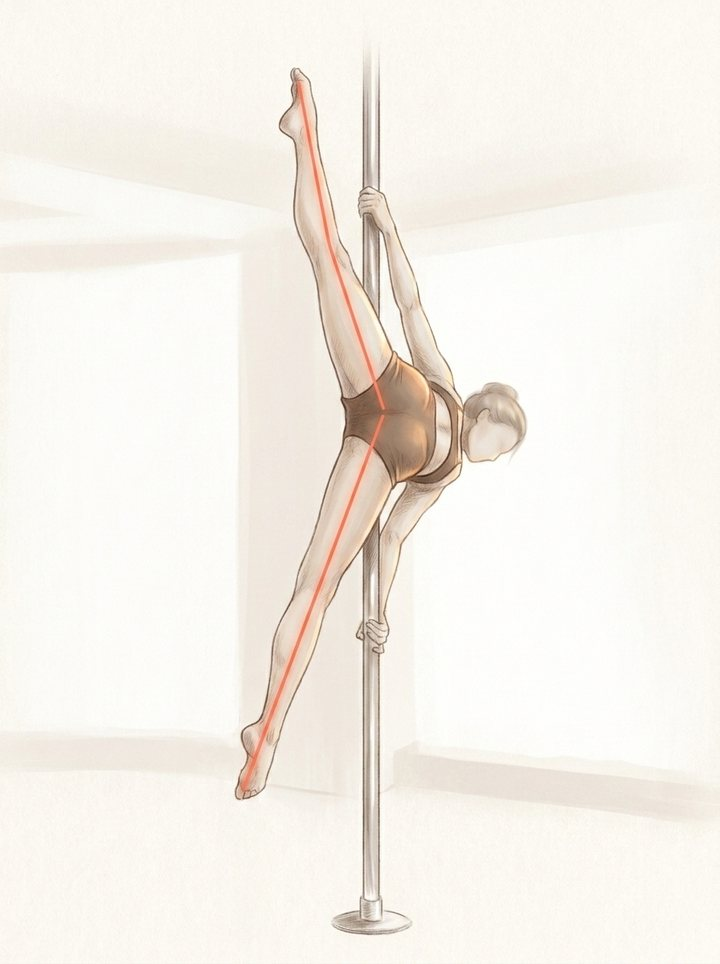
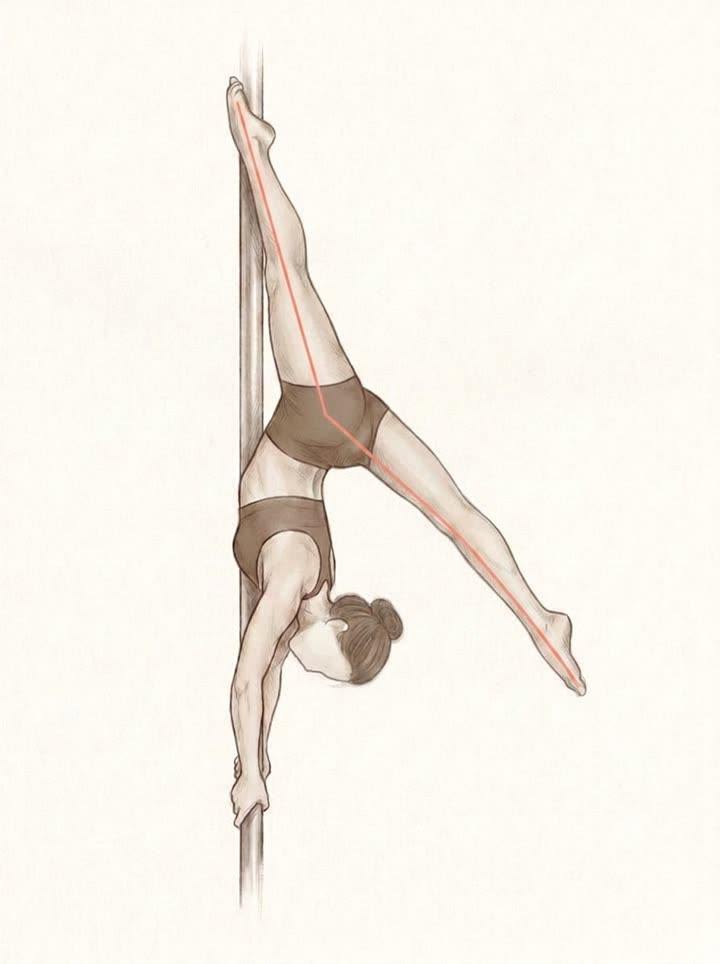
fix(illust): 기존 승인 자산 2장 수리 — 민머리(킵업 어깨)·목 돌아감(파워스핀)
belle 2차 지적 두 장이 오늘 만든 게 아니라 33-14/plf 통과 자산이었다.
kip-up--shoulder 민머리는 오늘 신규 10장이 전부 민머리로 나온 것과 같은 원인
(당시 프롬프트에 머리카락 조항 없음) — 그때도 그랬는데 검수 항목에 없어 통과했다.
power-spin 은 목 돌아감 + 이 장만 배경이 있어 나머지 18장과 톤이 어긋났다.

기존 9장 전수 재점검: 나머지 7장은 9항목 통과, 결함은 belle 이 짚은 2장뿐.
같은 하드닝 프롬프트로 재생성해 통과. ref-power-spin.jpg 는 파일명 유지
(L-10 승인 자산 경로 불변), 내용만 갱신.

교훈: '승인 자산' 라벨이 검수 면제가 아니다 — 당시 게이트에 없던 항목은
통과 여부가 확인된 적이 없다. 게이트를 늘리면 과거 통과분도 다시 봐야 한다.

19/19 검수 9항목 통과.

Changed region(s): [[0.3056, 0.0622, 0.9472, 0.9959], [0.4278, 0.8091, 0.4583, 0.8402]]

diff --git a/.planning/quick/260809-ill-missing-illustrations/260809-ill-SUMMARY.md b/.planning/quick/260809-ill-missing-illustrations/260809-ill-SUMMARY.md
@@ -268,3 +268,35 @@ try9 라운드에서 머리카락·옷·폴은 전건 해소. 남은 4건은 표
 
 ①익명(얼굴만) ②자세 충실 ③가이드 표시 ④사지 개수 **⑤머리카락 ⑥착의 ⑦폴 1개·인물 1명
 ⑧목 방향 ⑨사지 전 길이 자연스러움**. ④만 보면 belle 반려가 재생산된다.
+
+---
+
+## 7차 — **기존 승인 자산**에서 같은 결함 발견 (belle 2차 지적)
+
+belle 이 갤러리에서 짚은 두 장은 오늘 만든 것이 아니라 **33-14/plf 통과 자산**이었다:
+
+| 자산 | 결함 | 왜 통과했었나 |
+|---|---|---|
+| `ref-kip-up--shoulder` | **민머리** | 당시 프롬프트에 머리카락 조항이 없었다 — 오늘 신규 10장이 전부 민머리로 나온 것과 **같은 원인**. 그때도 그랬는데 검수 항목에 없어서 통과했다 |
+| `ref-power-spin` | **목 돌아감** + 이 장만 배경(방·창)이 있어 나머지 18장(무배경)과 톤 불일치 | 검수 4항목에 목·배경이 없었다 |
+
+**기존 9장 전수 재점검** — 나머지 7장(kip-up leg / climb / invert / foxtop / foxtop-split /
+power-spin--shoulder / elbow-twist--arm)은 9항목 통과. 결함은 정확히 belle 이 짚은 2장뿐.
+
+### 수리
+
+같은 하드닝 프롬프트로 재생성 → 둘 다 통과. `ref-power-spin.jpg` 는 **파일명 유지**
+(L-10 승인 자산 경로 불변) 하고 내용만 갱신했다.
+
+- kip-up--shoulder: 머리 묶음 + 등면 견갑 원, 무배경
+- power-spin: 목이 몸과 같은 방향, 직선 1줄이 위 발끝→골반→아래 발끝, 배경 제거로 톤 통일
+
+### 최종
+
+**19/19 검수 9항목 통과.** 신규 10 · 기존 수리 2 · 기존 유지 7.
+
+### 남은 교훈
+
+"승인 자산"이라는 라벨이 검수 면제가 아니다 — **당시 게이트에 없던 항목은 통과 여부가
+확인된 적이 없다.** 오늘 게이트를 4→9로 늘렸으니, 과거 통과분도 새 게이트로 다시 봐야
+한다는 것이 이번에 실증됐다.
